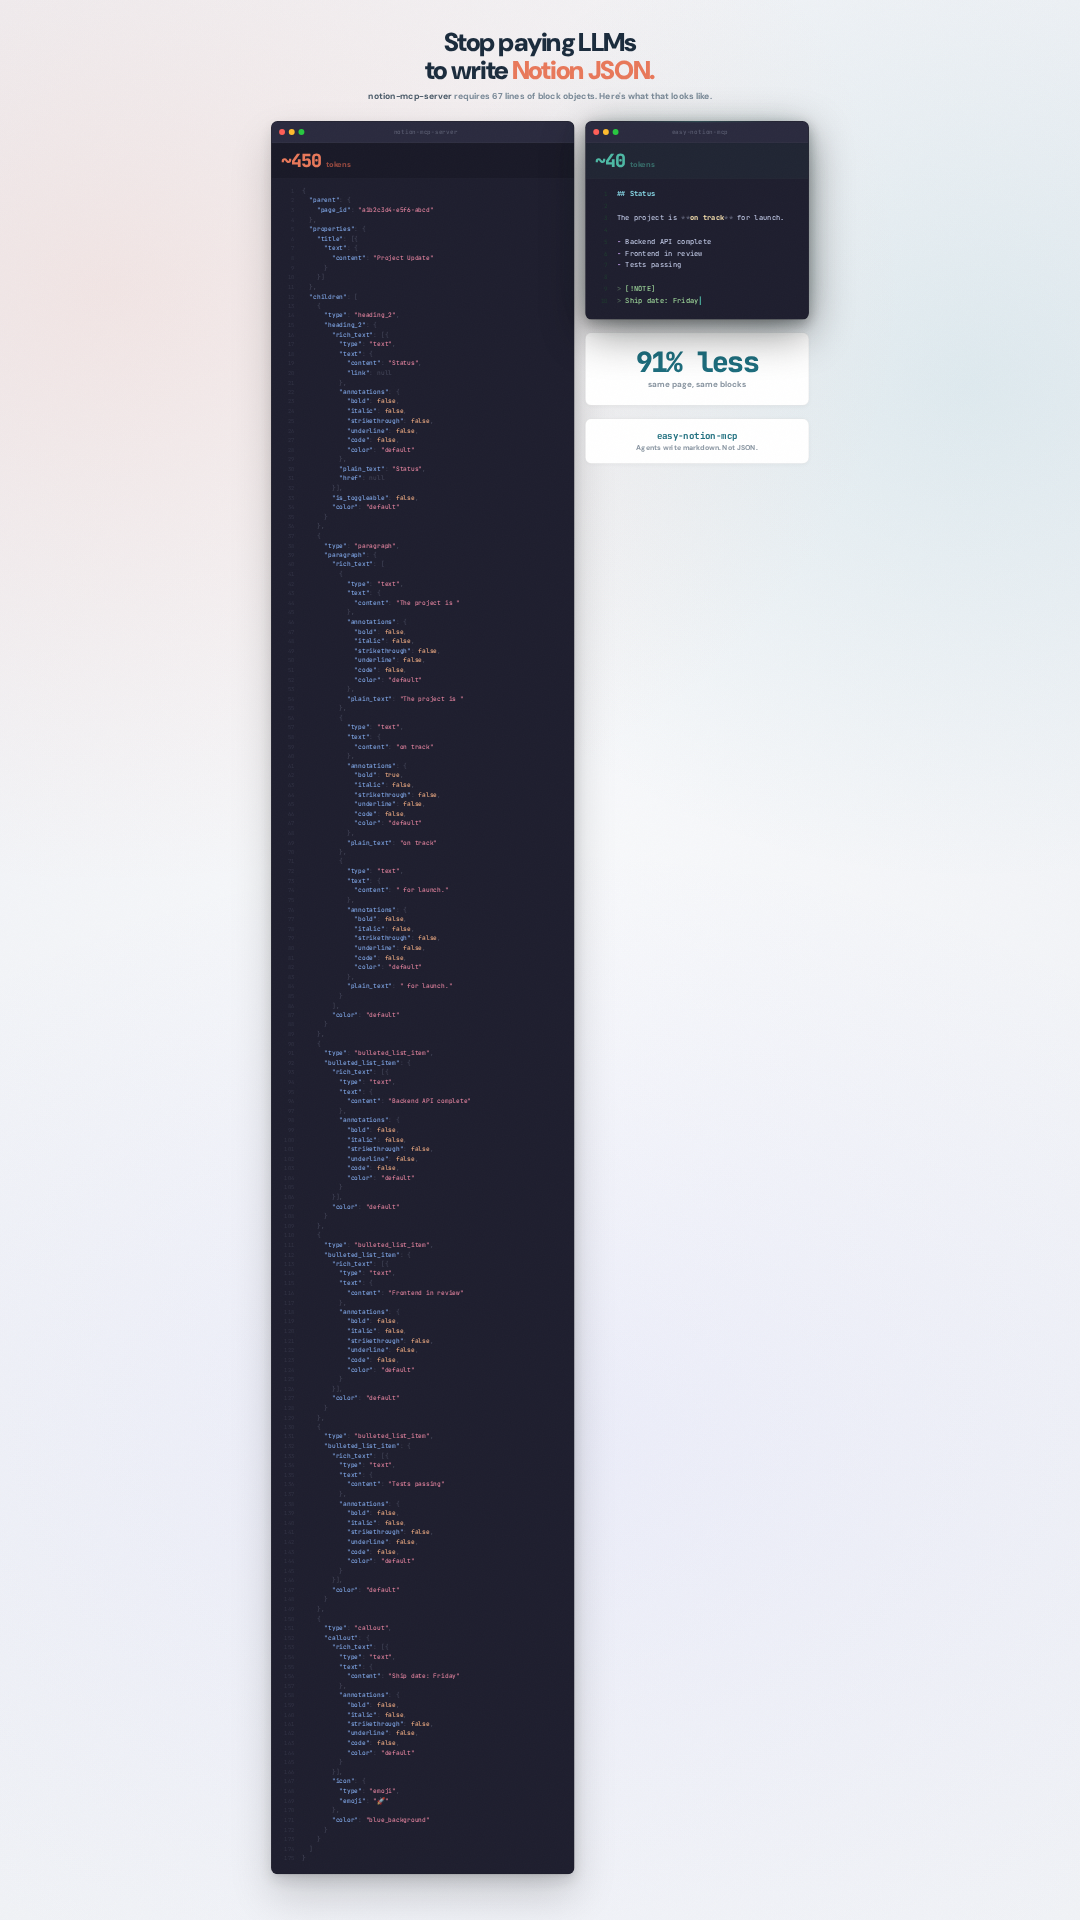
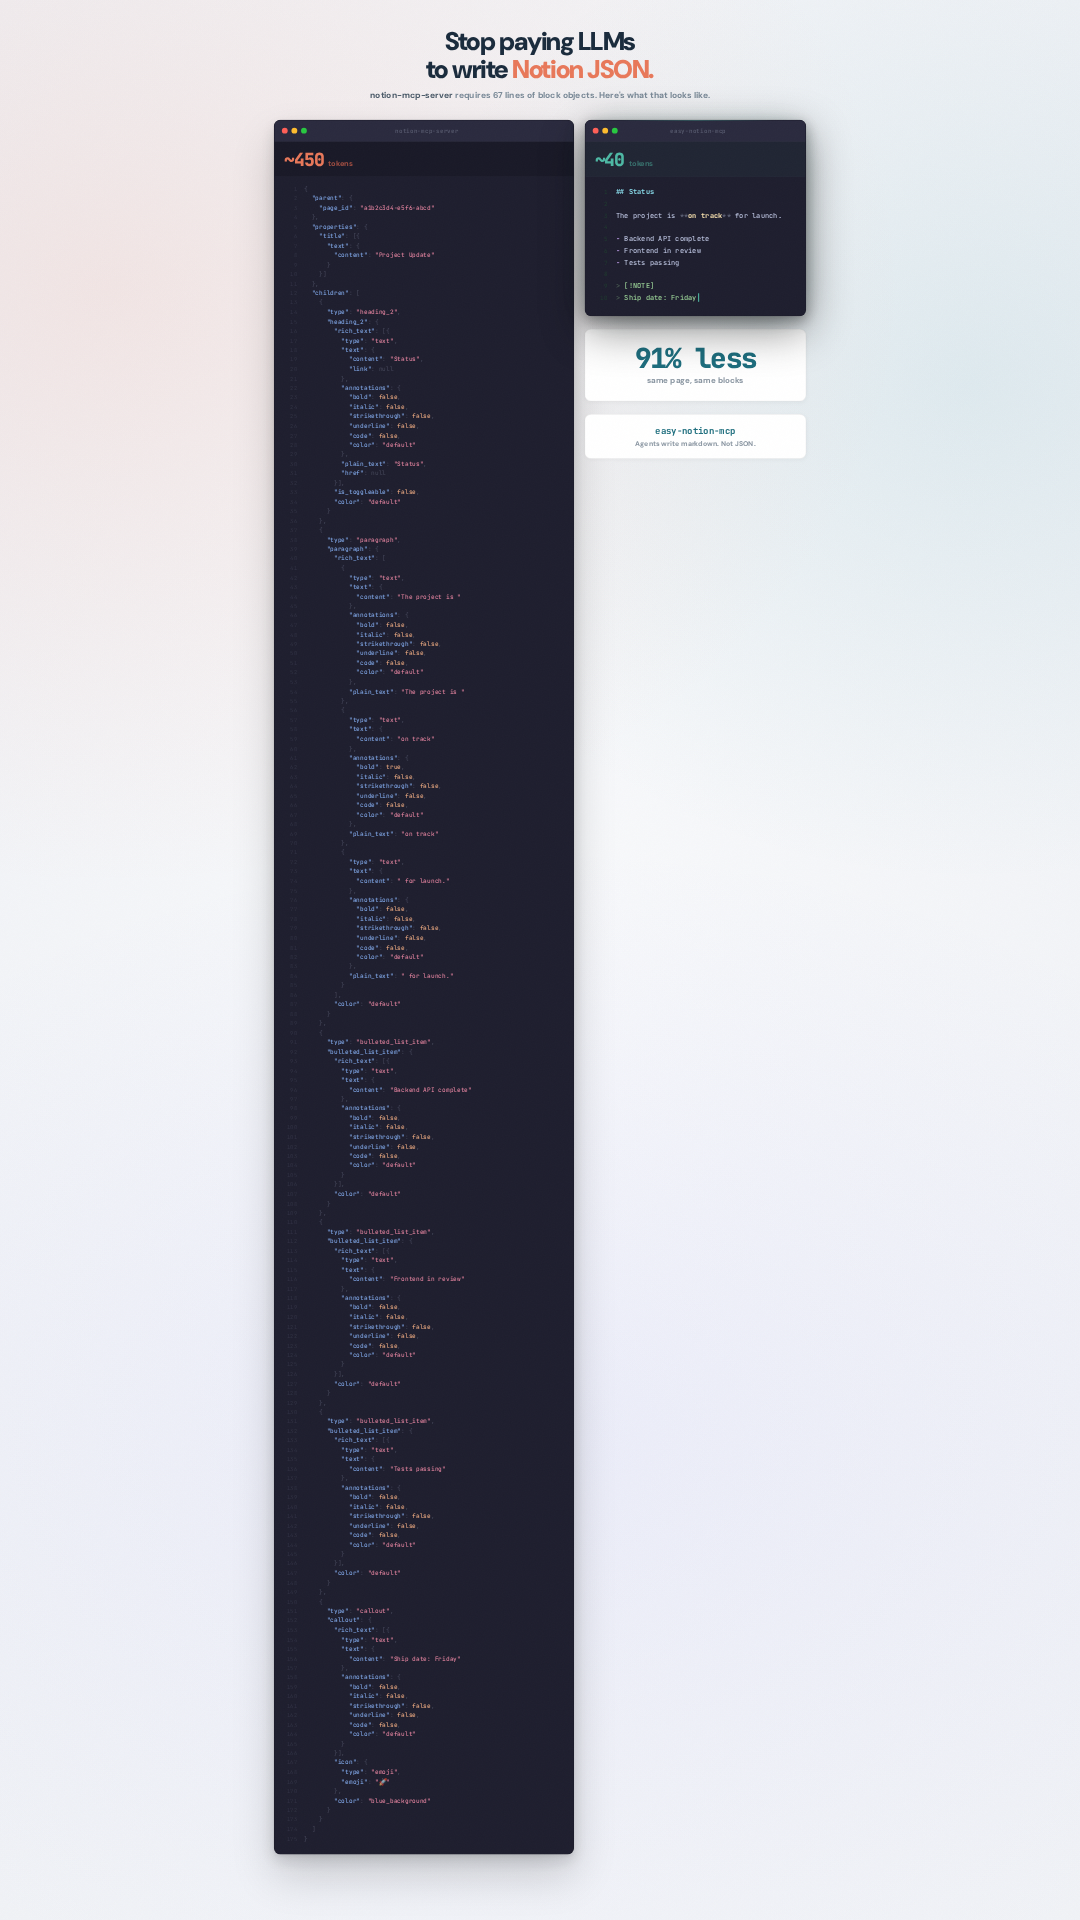
Fix zoom-out to use 100vh instead of hardcoded 1920px
Adapts to actual browser viewport height so the bottom of the JSON
panel is always visible after the zoom-out completes.

Changed region(s): [[0.2444, 0.0625, 0.55, 1.0], [0.55, 0.0938, 0.7333, 0.25], [0.3972, 0.0, 0.6111, 0.0938]]

diff --git a/assets/comparison-zoomed.html b/assets/comparison-zoomed.html
@@ -79,7 +79,7 @@
       }
 
       body {
-        height: 1920px;
+        height: 100vh;
         overflow: hidden;
       }
 
@@ -704,11 +704,11 @@
         document.getElementById("md-code").innerHTML =
           highlightMD(mdSource) + '<span class="cursor"></span>';
 
-        // Calculate scale needed to fit the full container in the viewport
+        // Calculate scale needed to fit the full container in the actual viewport
         var container = document.querySelector(".container");
-        var viewportH = 1920;
+        var viewportH = window.innerHeight;
         var naturalH = container.scrollHeight;
-        var scale = Math.min(1, (viewportH - 20) / naturalH); // 20px breathing room
+        var scale = Math.min(1, (viewportH - 40) / naturalH); // 40px breathing room
         container.style.setProperty("--final-scale", scale);
       });
     </script>
